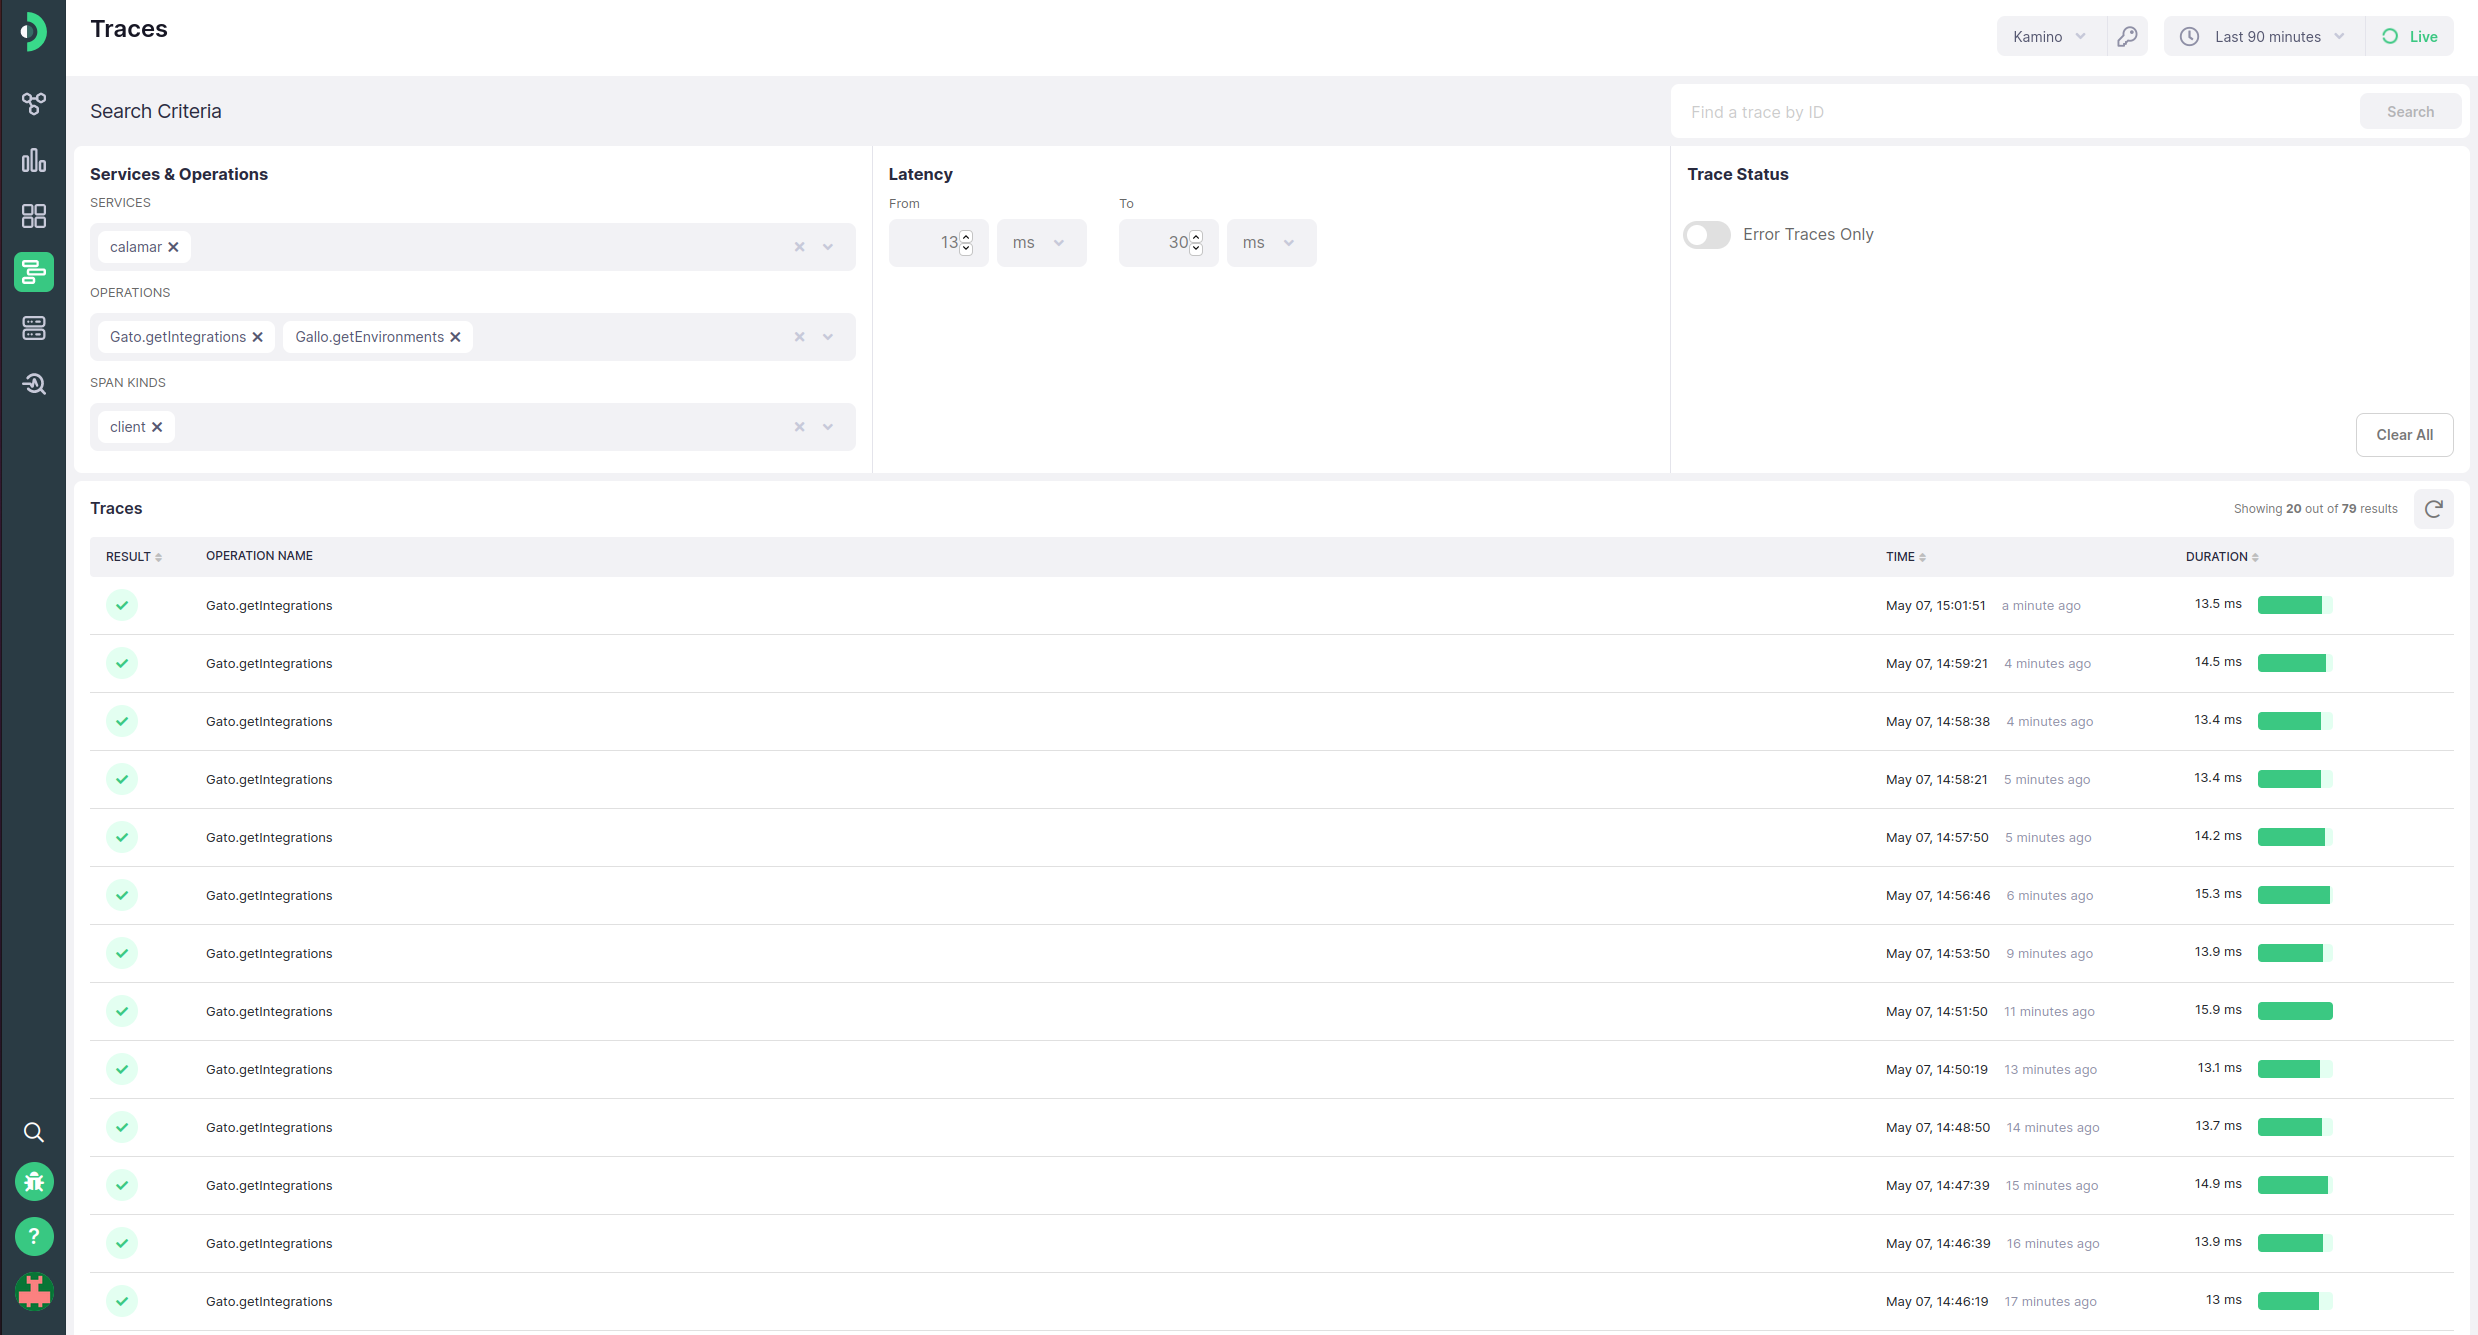
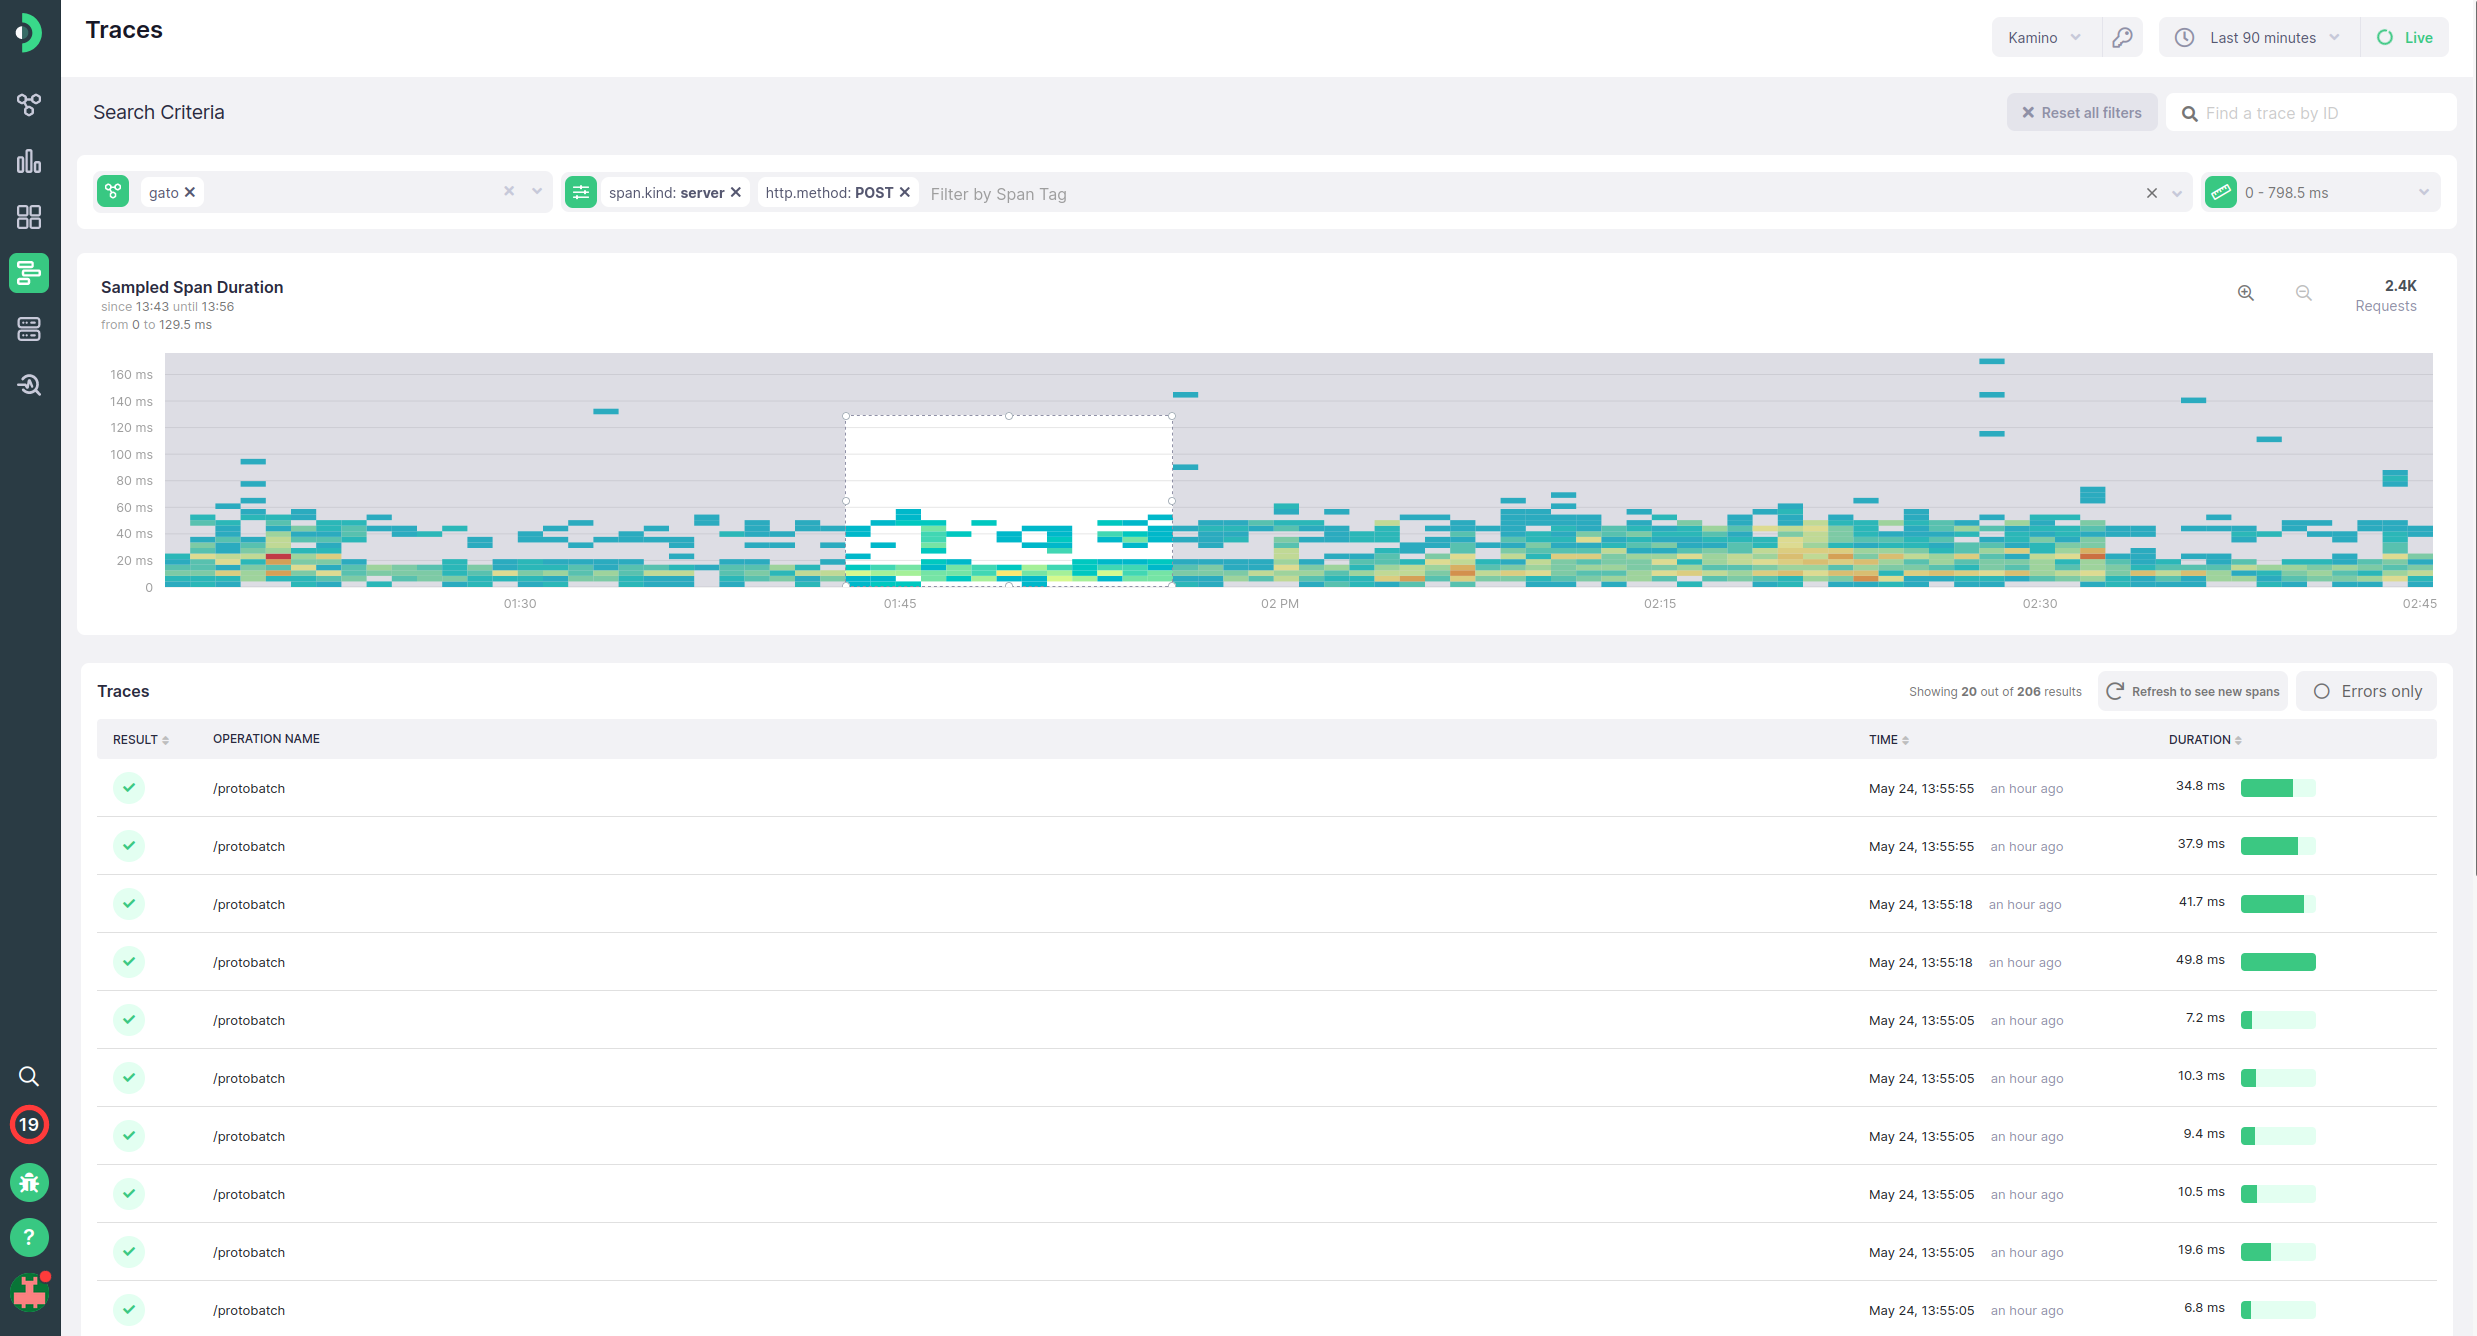
Update trace search documentation to match the new implementation

diff --git a/docs/latest/apm/traces/trace-search.md b/docs/latest/apm/traces/trace-search.md
@@ -13,24 +13,44 @@ Trace Search
 Trace Search
 {% endlightbox %}
 
-With the Trace Search, you can quickly and easily filter through your ingested traces, breaking them down by service, operation and [span kind], as well as duration or presence of error.
+The Trace Search page is built for finding specific ingested (sampled) spans through filtering by service, duration, or arbitrary span tags. It contains the filters, a heatmap showing all sampled spans that match the criteria, and a paginated list of matching spans. One *important note* about this page is that it will _not_ auto-update every minute if the [time picker] is set to live mode. This is meant to keep the spans fixed as you're examining the list, rather than moving them as the data source refreshes. Refreshing needs to be done [manually](#refreshing).
 
-You need to select one or more services for which to search through traces. As you select services, the available operations and span kinds will be populated in the multiple select
-inputs that follow it. By default, the resulting spans will not be constrained by duration. You may do so by changing the values in latency (duration) inputs. This filter is optional,
-but if either the minimum or the maximum is entered, both will have to be. Finally, if you are only interested in spans that have had errors occur during their recording, they can be
-selected by toggling the error spans only switch.
+Span Filters
+-------------
 
-Every time the filters are updated, a [span list] will be displayed, and will be populated with spans that match the filters specified (if any).
+The spans may be filtered using the Service filter, which will constrain it only to spans that have been recorded from inside a certain service - though the service does not need to be the originator (or root) of the trace. If no services are selected, all searches will be done across *all* spans, no matter the originating service.
 
-{% lightbox /assets/img/apm/find-trace-error.png %}
-Find Trace - Wrong Trace ID
-{% endlightbox %}
+The second filter is the tag search, which allows you to filter spans by the [span tag] values that the span has. For example, these can be the operation, http method, presence of error, or other arbitrary tags added either via automatic instrumentation or manually. The tag search allows for searching across both tag keys and tag values asynchronously by typing into the dropdown search field. Note that the available tags *are* constrained by the selected services. They are not, however, constrained by already selected tag. It is therefore possible to select a combination of tags that never occur in the application.
+
+The third filter is the range duration filter. Upon page load, the minimum and maximum will be set to match the extreme values from your ingested spans. Spans can be filtered out by duration by changing the value in the slider or the input field. [Zooming into the chart](#sampled-span-chart) will also automatically update the values in the range filter.
+
+Time selection in the time picker will also affect the filtered values, and updating the time picker will update the chart and list of spans.
+
+Sampled Span Chart
+-------------------
+
+Below the filters bar, a [heatmap chart] showing durations of all sampled spans that match the filter criteria will be shown. The chart has no legend and cannot be added to dashboards, or be made the source of alerts. Selection can be made on the chart, on both the latency and time axes. Making a selection will update the values displayed in the [span list](#span-list), constraining them to the selection, but will not update any other element on the site. When a selection is made, the chart can be zoomed in on both the latency and time axes, which will update the duration range filter and the time picker accordingly. Doing so will always send the time picker into [fixed time mode].
+
+Span List
+----------
+
+A [span list] component lies underneath the tables, and shows a paginated list of spans that match the given criteria, as well as any selection on the heatmap. The component differs from the basic span list in two ways:
+
+* It does not update with live time ticking. Instead, there is a refresh button that will bring the list (and chart) up to speed with any time that has passed
+* There is an error toggle, which, when live, shows only spans with errors. Checking it will update both the list and the chart
+
+Clicking on any of the span entries will open the [trace details] view.
+
+Find by Trace ID
+-----------------
 
 Additionally, if you already know the trace ID of a trace you are searching for, you can enter it in the trace ID search in the top right corner. If the trace ID is valid,
-a drawer will be opened with [trace details] for that trace. Otherwise, the input will briefly transition into an error state to indicate that no trace could be found for that
-ID. Note that you can only find and view spans that are included in your [retention period].
+a drawer will be opened with [trace details] for that trace. Otherwise, an error will be shown with possible explanations as to why no trace was matched. Note that you can only find and view spans that are included in your [retention period].
 
+[span tag]: ../../../core/tracing/#tags
+[heatmap chart]: ../../general/charts/#heatmap-charts
+[time picker]: ../../general/time-picker/
+[fixed time mode]: ../../general/time-picker/#fixed-time
 [span list]: ../trace-list/
 [trace details]: ../trace-details/
-[span kind]: ../../../core/tracing/#spans
 [retention period]: ../../general/environments/
